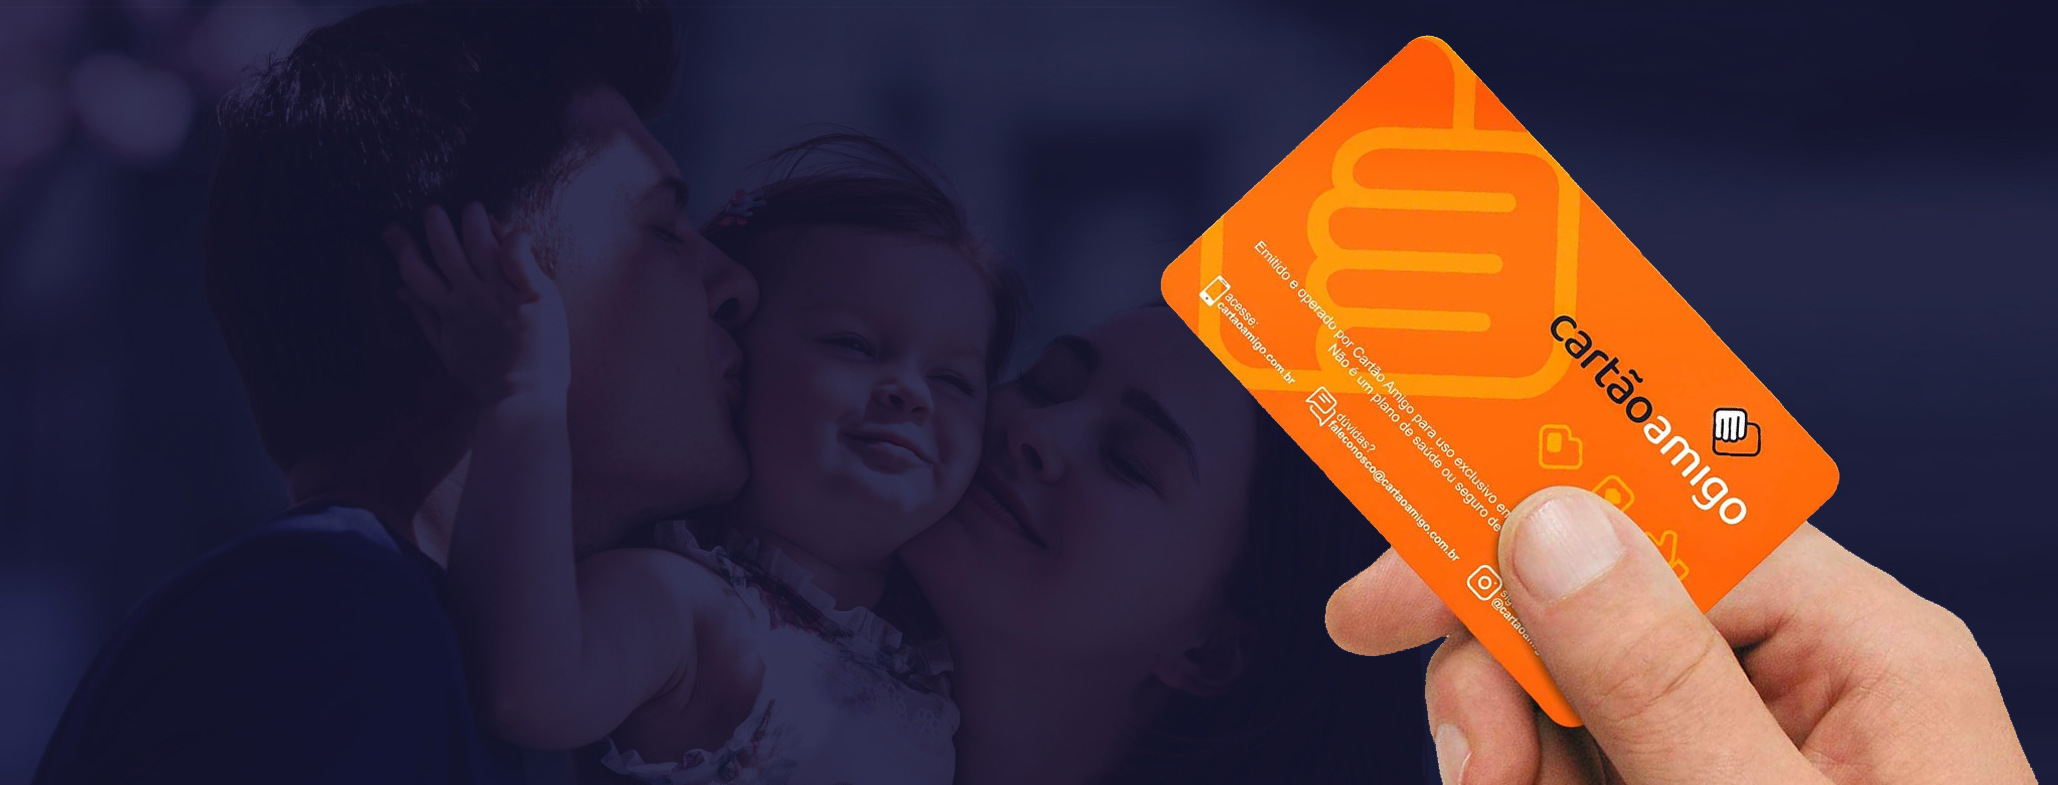
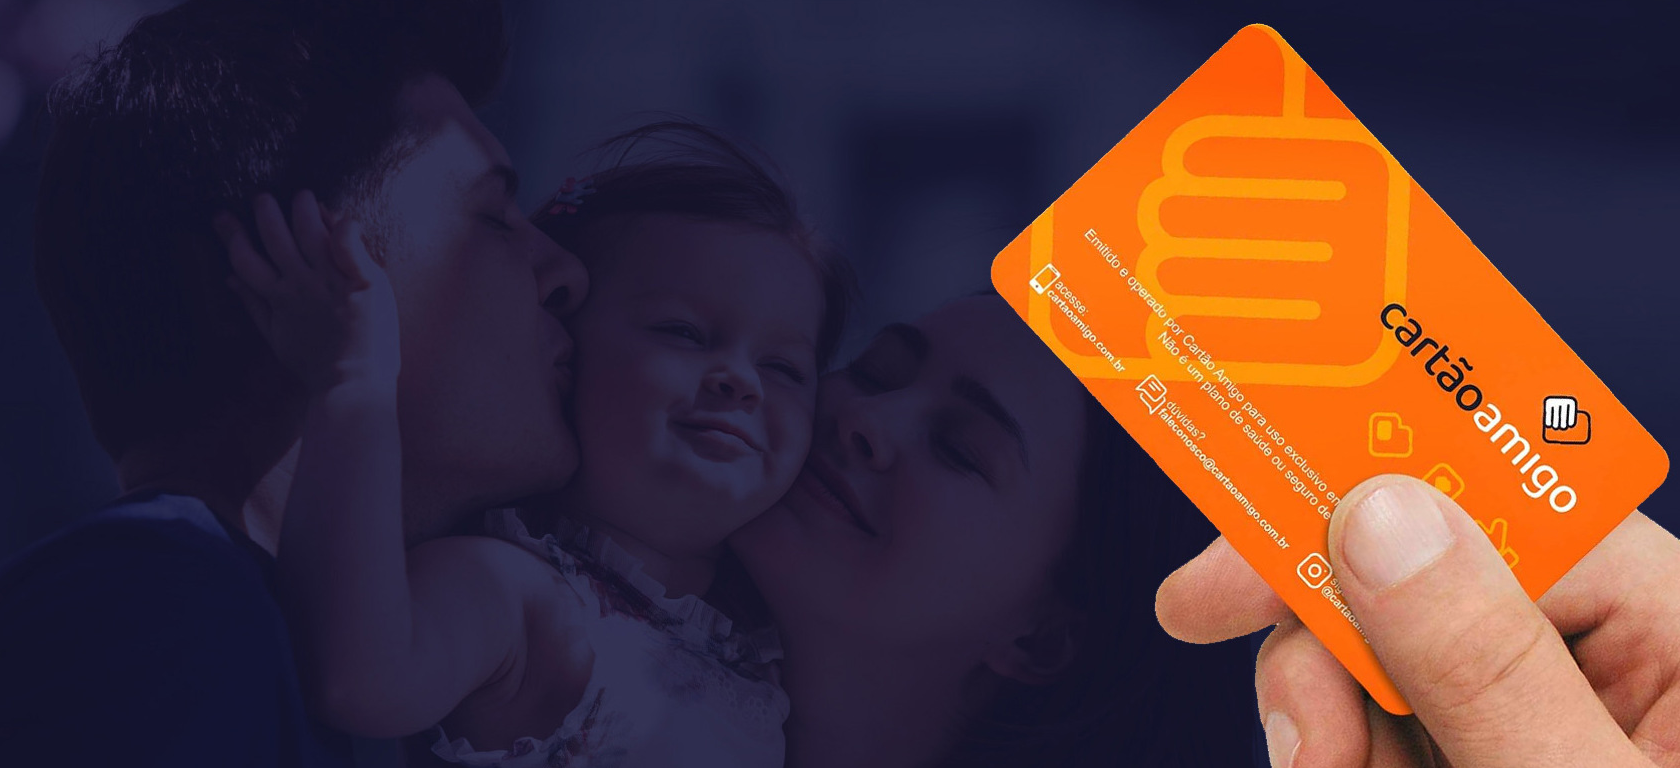
Ajuste ao mostrar a imagem de plano de fundo do cartão amigo

diff --git a/src/app/components/home/home.component.html b/src/app/components/home/home.component.html
@@ -38,7 +38,7 @@
     
    </header>
    
-   <mat-drawer-container class="page-wrapper" style="height: 100%;">
+   <mat-drawer-container class="page-wrapper">
 
         <!-- Mostra o menu vertical -->
         <mat-drawer #sidenav 
@@ -66,11 +66,7 @@
             <router-outlet></router-outlet>
         </mat-drawer-content>  
 
-        
-
     </mat-drawer-container>
-
-
 
 </div>
 

diff --git a/src/app/app.component.html b/src/app/app.component.html
@@ -1,5 +1,5 @@
 <div id="app" class="app" 
-     style="background: #1d1c3b;"
+     style="overflow: scroll; background: #1d1c3b;"
      [dir]="(settings.rtl) ? 'rtl' : 'ltr'"
      [ngClass]="settings.theme" 
      [class.fixed-header]="settings.fixedHeader"

diff --git a/src/styles.scss b/src/styles.scss
@@ -8,9 +8,8 @@
 
 .img-background {
   background: url(./assets/imagens/banner-cartao-amigo.png) no-repeat 0 0;
-  background-position: center;
+  background-position: right;
   background-size: cover;  
-  background-origin: border-box;
 }
 
 .espaco{

diff --git a/src/app/themes/_variables.scss b/src/app/themes/_variables.scss
@@ -2,7 +2,7 @@ $main-font-family: 'Roboto', sans-serif;
 
 $top-toolbar-height: 56px; 
 $horizontal-menu-height: 64px; 
-$footer-toolbar-height: 56px; 
+$footer-toolbar-height: 0px; 
 
 $sidenav-width: 260px;
 $compact-sidenav-width: 170px;

diff --git a/src/app/components/home/tela-principal/tela-principal.component.html b/src/app/components/home/tela-principal/tela-principal.component.html
@@ -1,4 +1,4 @@
-<mat-sidenav-container  
-    class="img-background"
-    style="height: 100%" >
-</mat-sidenav-container>
+    <mat-sidenav-container  
+        class="img-background"
+        >
+    </mat-sidenav-container>
